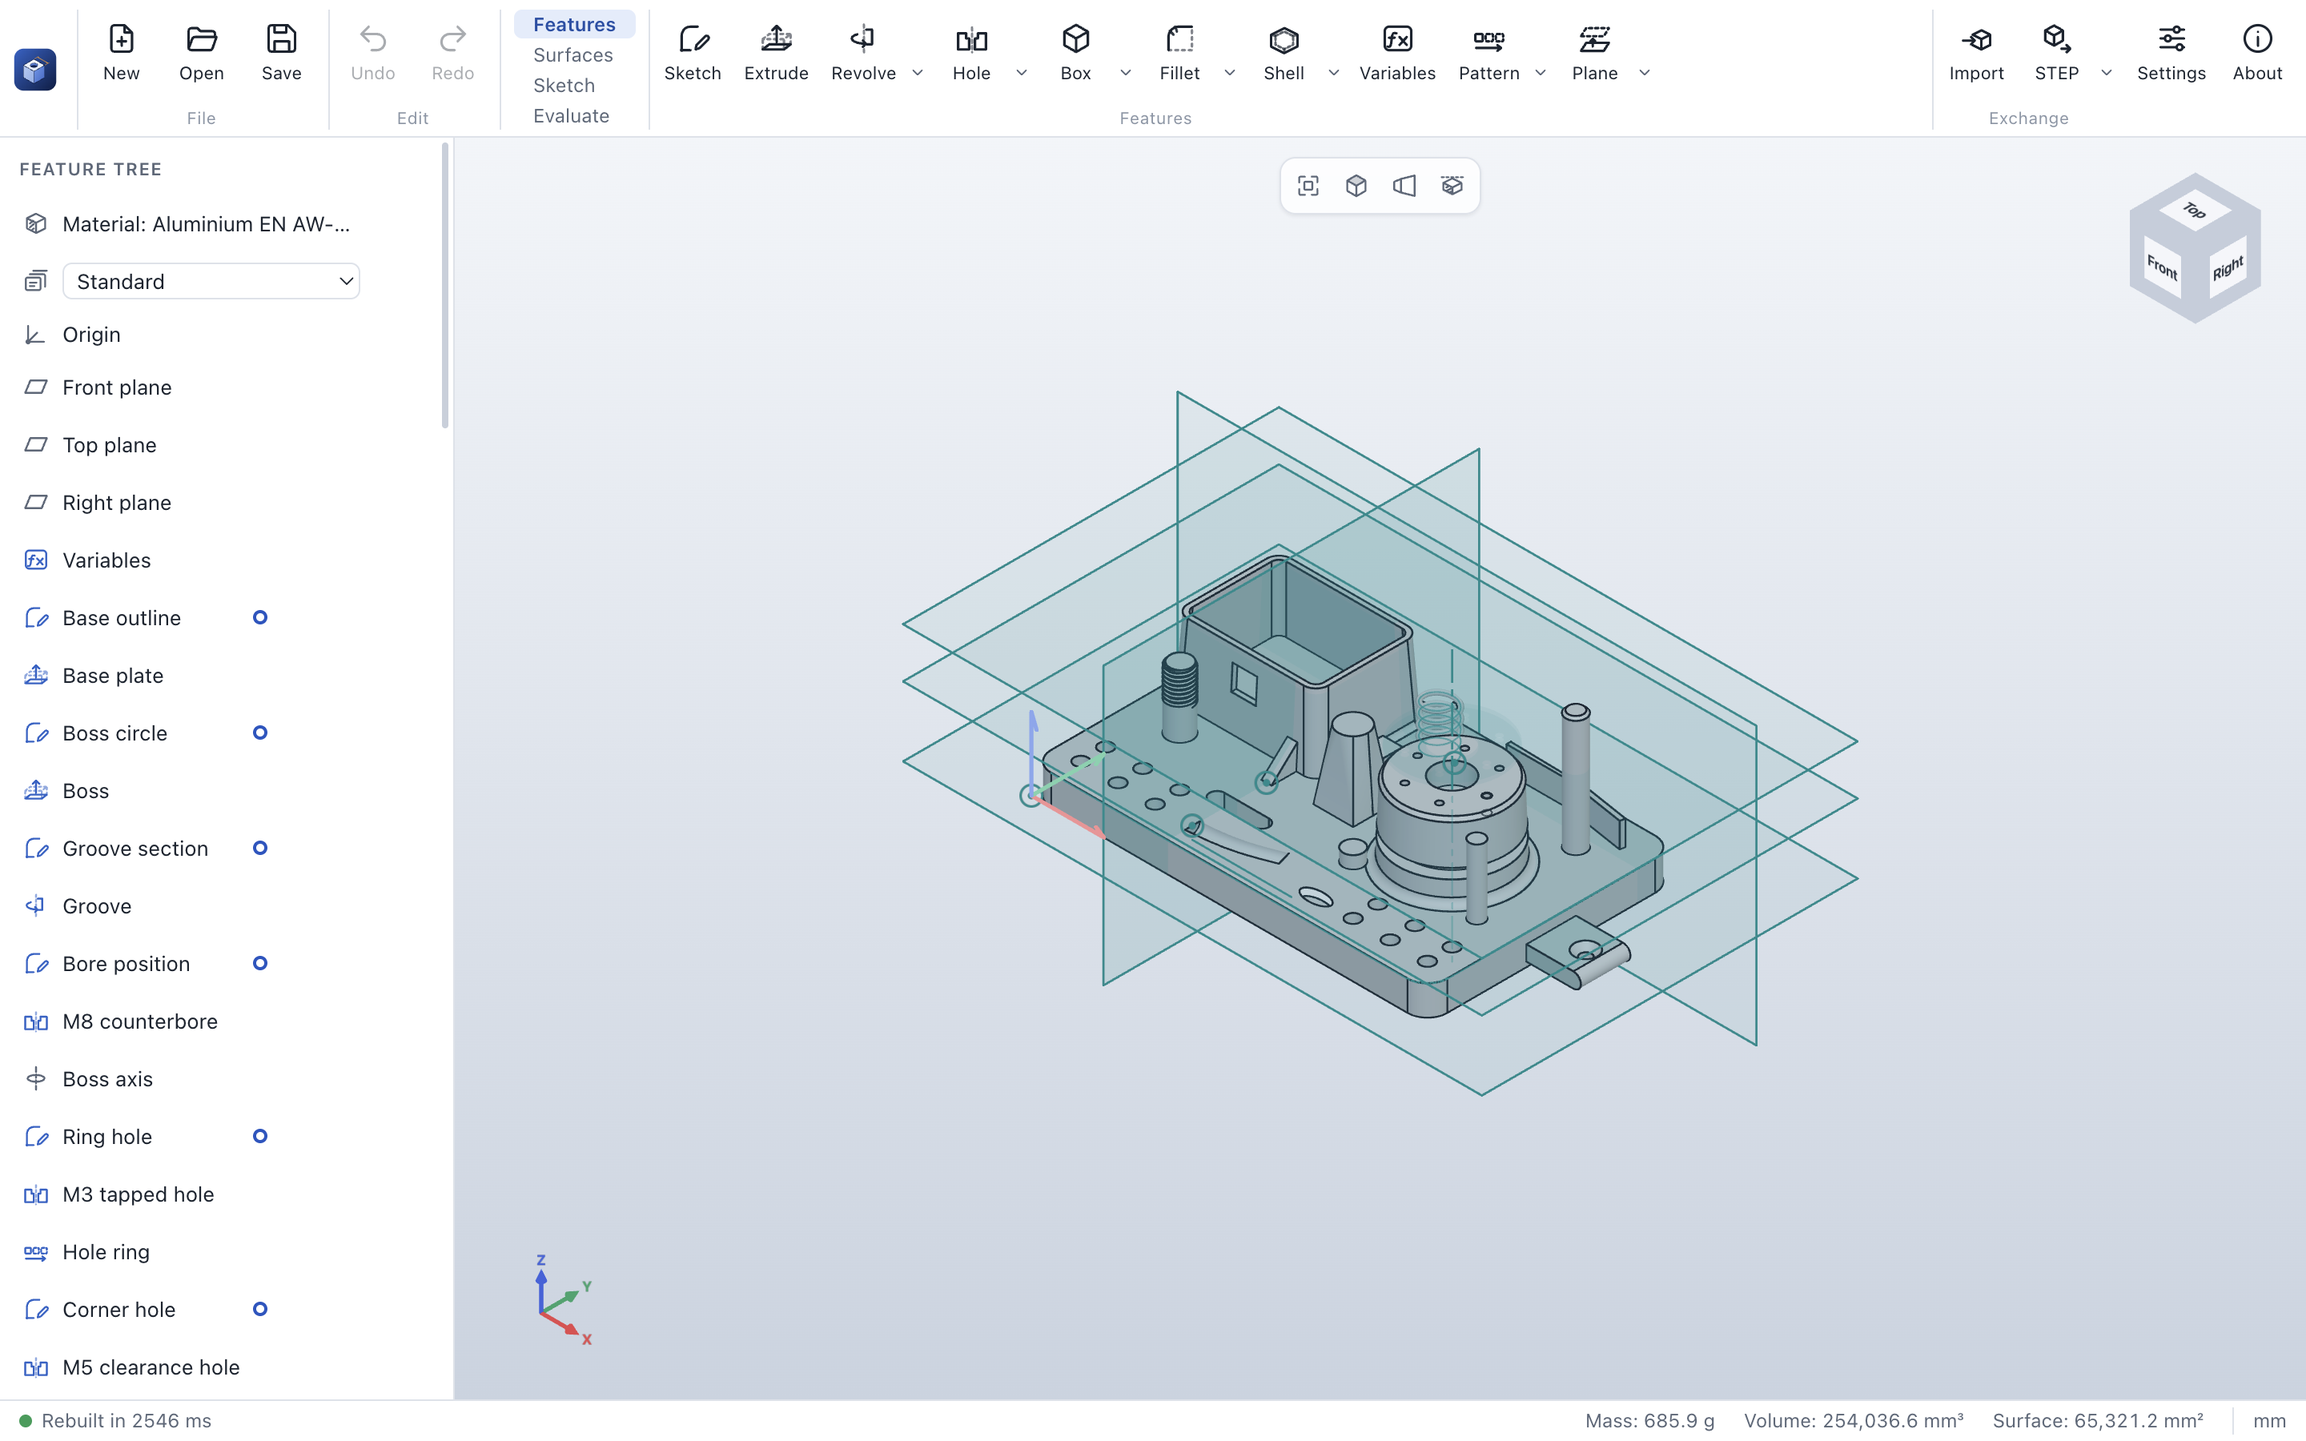
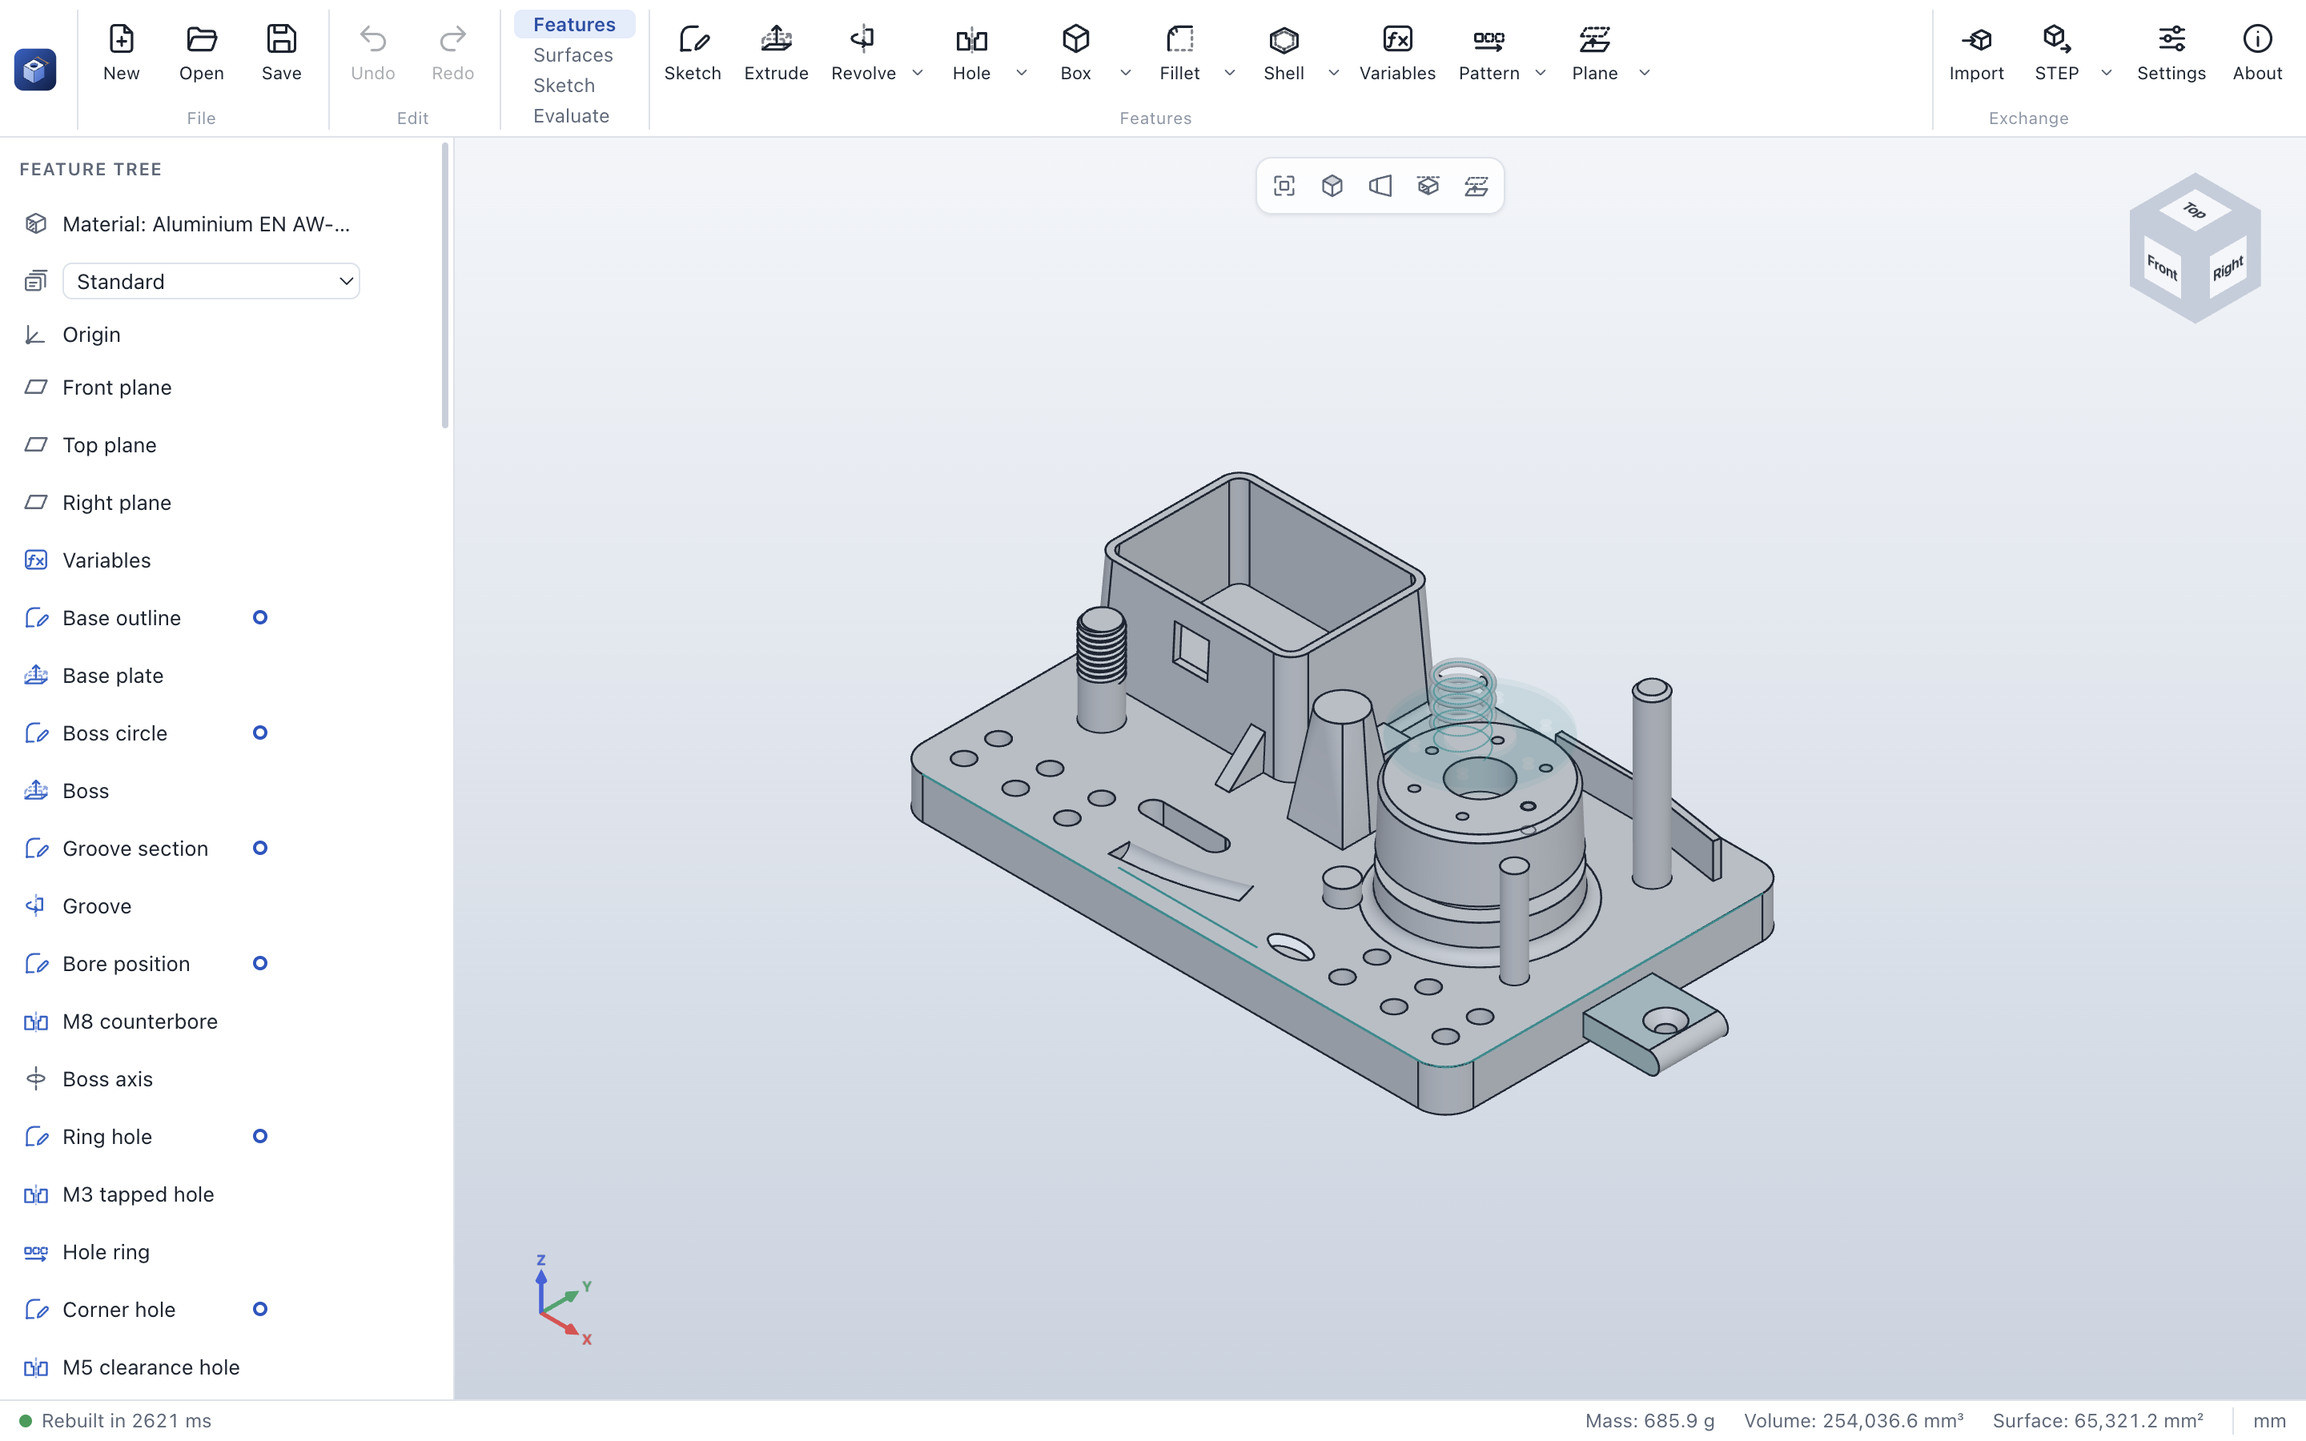
A view toolbar button hides reference planes, axes and points
Large parts collect many reference planes, axes, points and coordinate
systems that cover the part. A toggle in the view toolbar hides them; they
still show while a feature picks references, while a sketch plane is
chosen, and when selected or hovered in the tree. The showcase screenshot
uses it.

Claude-Session: https://claude.ai/code/session_014mH4hRaMFdGVSXx59CTqyr

Changed region(s): [[0.375, 0.28, 0.7812, 0.7778], [0.5625, 0.1244, 0.6562, 0.1556]]

diff --git a/tests/e2e/app.spec.ts b/tests/e2e/app.spec.ts
@@ -1261,6 +1261,35 @@ test('gives the mass properties of one body and exports it alone', async () => {
   await expect(page.locator('[data-testid="export-frame-dialog"]')).toBeHidden();
 });
 
+test('hides reference planes, axes and points, but shows them where they are picked', async () => {
+  launched = await launchApp({ width: 1000, height: 640 });
+  const { page } = launched;
+  await page.evaluate(() => {
+    const features = [
+      { id: 'block', type: 'box', operation: 'add', width: 100, depth: 60, height: 40, position: [0, 0, 0] },
+      { id: 'mid', type: 'plane', method: 'offset', references: [{ kind: 'standard-plane', plane: 'top' }], distance: 20, angle: 45, flip: false },
+      { id: 'z', type: 'axis', method: 'twoPlanes', references: [{ kind: 'standard-plane', plane: 'front' }, { kind: 'standard-plane', plane: 'right' }] },
+    ];
+    (window as unknown as { __parawerk: { setState(s: unknown): void } }).__parawerk.setState({ history: { features, past: [], future: [] }, savedFeatures: features, dirty: false });
+  });
+  await idle(page);
+  const drawn = () => page.evaluate(() => (window as unknown as { __parawerk: { viewport: { references(): number } } }).__parawerk.viewport.references());
+  await expect.poll(drawn).toBe(2);
+  await page.click('[data-testid="toggle-references"]');
+  await expect(page.locator('[data-testid="toggle-references"]')).toHaveAttribute('aria-pressed', 'false');
+  await expect.poll(drawn).toBe(0);
+  // Selected in the tree, a plane shows; while a new plane picks its references, all show.
+  await page.click('.feature-tree .tree-item[data-feature-id="mid"]');
+  await expect.poll(drawn).toBe(1);
+  await page.keyboard.press('Escape');
+  await page.click('[data-command="plane"]');
+  await expect.poll(drawn).toBeGreaterThanOrEqual(2);
+  await page.click('[data-testid="panel-cancel"]');
+  await expect.poll(drawn).toBe(0);
+  await page.click('[data-testid="toggle-references"]');
+  await expect.poll(drawn).toBe(2);
+});
+
 test('adds a box as a body of its own and combines the bodies', async () => {
   launched = await launchApp({ width: 1000, height: 640 });
   const { page } = launched;

diff --git a/src/renderer/src/references.ts b/src/renderer/src/references.ts
@@ -153,6 +153,9 @@ export function visibleThreads(state: AppState): CosmeticThread[] {
  * The reference planes, axes and points shown in the 3D view: those before the feature or sketch being
  * edited, and the one being edited (as a preview, highlighted), with hovered and selected ones marked.
  */
+/** The reference geometry that only helps to build the part (curves and surfaces are shapes of it). */
+const HELPER_KINDS: ReadonlySet<ReferenceGeometry['kind']> = new Set(['plane', 'axis', 'point', 'csys']);
+
 export function referenceItems(state: AppState): ReferenceItem[] {
   const features = state.history.features;
   const edit = state.activeEdit;
@@ -164,11 +167,14 @@ export function referenceItems(state: AppState): ReferenceItem[] {
   const selected = new Set(state.selection.filter((pick) => pick.kind === 'reference').map((pick) => pick.index));
   const hovered = state.hover?.kind === 'reference' ? state.hover.index : null;
   const items: ReferenceItem[] = [];
+  // Hidden planes, axes, points and coordinate systems still show where they can be picked, and when marked.
+  const hideHelpers = !state.showReferences && !state.choosingSketchPlane && !(edit && picksReferences(edit.draft));
   const add = (feature: Feature, index: number, preview: boolean) => {
     if (!hasReferenceGeometry(feature) || feature.suppressed) return;
     const geometry = results.get(feature.id)?.reference;
     if (!geometry) return;
     const style = preview ? 'preview' : hovered === index ? 'hovered' : selected.has(index) || referenced.has(index) ? 'selected' : 'normal';
+    if (hideHelpers && style === 'normal' && HELPER_KINDS.has(geometry.kind)) return;
     items.push({ index, geometry, style });
   };
   features.slice(0, end).forEach((feature, index) => add(feature, index, false));

diff --git a/src/renderer/src/ui/ViewToolbar.tsx b/src/renderer/src/ui/ViewToolbar.tsx
@@ -3,7 +3,9 @@ import { useTranslation } from 'react-i18next';
 import * as commands from '../commands.ts';
 import { useAppState } from '../state/store.ts';
 import { STANDARD_VIEWS } from '../viewport/views.ts';
-import { ProjectionIcon, RelationsIcon, SectionIcon, ViewsIcon, ZoomFitIcon } from './icons.tsx';
+import { FEATURE_ICONS, ProjectionIcon, RelationsIcon, SectionIcon, ViewsIcon, ZoomFitIcon } from './icons.tsx';
+
+const ReferencesIcon = FEATURE_ICONS.plane;
 
 const SHORTCUTS: Record<string, string> = {
   front: '1',
@@ -21,6 +23,7 @@ export function ViewToolbar() {
   const showRelations = useAppState((state) => state.settings.showSketchRelations);
   const sketching = useAppState((state) => state.sketch !== null);
   const section = useAppState((state) => state.section !== null);
+  const references = useAppState((state) => state.showReferences);
   const platform = useAppState((state) => state.appInfo?.platform);
   const [open, setOpen] = useState(false);
   const menuRef = useRef<HTMLDivElement>(null);
@@ -92,6 +95,17 @@ export function ViewToolbar() {
         onClick={() => commands.toggleSection()}
       >
         <SectionIcon />
+      </button>
+      <button
+        type="button"
+        className={`icon-button${references ? ' is-active' : ''}`}
+        title={t('viewbar.references')}
+        aria-label={t('viewbar.references')}
+        aria-pressed={references}
+        data-testid="toggle-references"
+        onClick={() => commands.toggleReferences()}
+      >
+        <ReferencesIcon />
       </button>
       {sketching ? (
         <button

diff --git a/tests/docs/screenshots.spec.ts b/tests/docs/screenshots.spec.ts
@@ -1581,10 +1581,11 @@ test('feature showcase screenshot', async () => {
   const file = [...(await readFile(path.join(repoRoot, 'docs/examples/feature-showcase.pwpart')))];
   await page.evaluate((bytes) => (window as unknown as { __parawerk: { commands: { loadDocument(path: string, data: Uint8Array): void } } }).__parawerk.commands.loadDocument('feature-showcase.pwpart', new Uint8Array(bytes)), file);
   await idle(page);
+  // Without the reference planes, axes and points, fitted to the part; the toast about the opened file fades out first.
+  await page.click('[data-testid="toggle-references"]');
   await page.evaluate(() => (window as unknown as { __parawerk: { viewport: { zoomToFit(): void } } }).__parawerk.viewport.zoomToFit());
   const canvas = await page.locator('.viewport-canvas').boundingBox();
   if (canvas) await page.mouse.move(canvas.x + canvas.width - 30, canvas.y + canvas.height - 30);
-  // The toast about the opened file fades out first.
   await page.waitForTimeout(4500);
   await page.screenshot({ path: out('showcase.png') });
   await app.close();

diff --git a/src/renderer/src/state/store.ts b/src/renderer/src/state/store.ts
@@ -123,6 +123,8 @@ export interface AppState {
   massFrame: string | null;
   /** The body (solid index) the mass properties are for; null: the whole part. */
   massBody: number | null;
+  /** Reference planes, axes, points and coordinate systems are drawn (they are shown anyway where they can be picked). */
+  showReferences: boolean;
   /** The export waiting for the choice of a coordinate system (asked only when the part has any). */
   exporting: ExportFormat | null;
   /** The coordinate system (feature id) the last export used; null: the model's own axes. */
@@ -175,6 +177,7 @@ export const initialState: AppState = {
   showMassProperties: false,
   massFrame: null,
   massBody: null,
+  showReferences: true,
   exporting: null,
   exportFrame: null,
   recovery: [],

diff --git a/src/renderer/src/ui/Viewport.tsx b/src/renderer/src/ui/Viewport.tsx
@@ -219,7 +219,9 @@ export function Viewport() {
         state.sketch?.index !== previous.sketch?.index ||
         state.hover !== previous.hover ||
         state.selection !== previous.selection ||
-        state.display !== previous.display
+        state.display !== previous.display ||
+        state.showReferences !== previous.showReferences ||
+        state.choosingSketchPlane !== previous.choosingSketchPlane
       ) {
         engine.setReferences(referenceItems(state));
         engine.setThreads(visibleThreads(state));

diff --git a/src/renderer/src/commands.ts b/src/renderer/src/commands.ts
@@ -1303,6 +1303,11 @@ export function setMassFrame(id: string | null): void {
   setState({ massFrame: id });
 }
 
+/** Shows or hides reference planes, axes, points and coordinate systems in the 3D view. */
+export function toggleReferences(show = !getState().showReferences): void {
+  setState({ showReferences: show });
+}
+
 /** Gives the mass properties of one body of the part (solid index), or (null) of the whole part. */
 export function setMassBody(index: number | null): void {
   setState({ massBody: index });

diff --git a/docs/user-guide/interface.md b/docs/user-guide/interface.md
@@ -8,7 +8,7 @@
 | **Feature tree** (left) | The part's material, the origin, the three standard planes and the history of the part, from top to bottom, ending in the rollback bar. Hover over a plane to show it in the 3D view; hover over a feature to edit, suppress or delete it; double-click to edit; drag features to reorder them. Features with a rebuild error are shown in red with a warning icon. |
 | **Property panel** (left, replaces the tree while a feature is created or edited) | Parameters of the feature with live preview. **✓** (Enter) applies, **✕** (Esc) cancels. Number fields accept calculations such as `120/2+5` and units such as `1in`; the arrow keys step the value (Shift: ×10). |
 | **Sketch panel** (left, above the tree in sketch mode) | The open sketch, its plane and contents. **✓** keeps the sketch, **✕** discards the changes. See [Sketches](sketches.md). |
-| **3D view** (center) | The model. The floating toolbar offers *Zoom to fit*, *Standard views*, *Perspective* and the *Section view*, and in sketch mode *Relation symbols*. The panels of the section view, the measure tool and the mass properties appear at the bottom right. The view cube (top right) and the axis indicator (bottom left) show the orientation. |
+| **3D view** (center) | The model. The floating toolbar offers *Zoom to fit*, *Standard views*, *Perspective*, the *Section view* and *Show reference planes, axes and points*, and in sketch mode *Relation symbols*. The panels of the section view, the measure tool and the mass properties appear at the bottom right. The view cube (top right) and the axis indicator (bottom left) show the orientation. |
 | **Status bar** (bottom) | Kernel state and rebuild time; the face or edge under the cursor (or the selected one) with its exact geometry, for example *Face 7 · Cylinder Ø 44 mm · 4,838.1 mm²*; mass (when the part has a material), volume and surface area of the part; optional frame statistics; the unit (mm). |
 
 ## Keyboard shortcuts

diff --git a/CHANGELOG.md b/CHANGELOG.md
@@ -17,6 +17,8 @@ and this project will adhere to [Semantic Versioning](https://semver.org/spec/v2
   their faces, so the features after them follow them.
 - Mass properties and exports of one body: the mass properties panel and the export dialog let you
   choose one body of a part of several – to weigh it or to print it on its own.
+- A button in the view toolbar hides reference planes, axes, points and coordinate systems; they still
+  show while a feature picks references, and when selected.
 - A feature showcase: one large example part with 86 features of all 33 kinds, built on each other –
   patterns of patterns, a shelled and drafted housing joined to the plate, a spring, a loft, a thread,
   surfaces, curves and two configurations ([docs/examples/feature-showcase.pwpart](docs/examples/feature-showcase.pwpart),

diff --git a/docs/user-guide/features.md b/docs/user-guide/features.md
@@ -540,6 +540,9 @@ Selecting the references first and then clicking **Plane**, **Axis** or **Point*
 away and chooses the type that fits – a planar face gives an offset plane, two vertices an axis through
 them.
 
+The plane button in the view toolbar (*Show reference planes, axes and points*) hides them when a part has
+many; they still show while a feature picks references, and when you select one in the tree.
+
 Reference geometry follows the part: it remembers faces, edges and vertices by name (see
 [How features remember their edges](#how-features-remember-their-edges)), so a plane offset from the top
 face moves up when the part gets taller. If something it is built on is gone, it is marked in red in the

diff --git a/docs/user-guide/reference/view-tools.md b/docs/user-guide/reference/view-tools.md
@@ -10,6 +10,7 @@
 | *Standard views* | Front, back, left, right, top, bottom, isometric | Ctrl/⌘ + 1 … 7 |
 | *Toggle perspective* | Orthographic (default) or perspective projection | |
 | *Section view* | Cuts the part open: see [Section view](section-view.md) | |
+| *Show reference planes, axes and points* | Hides or shows reference planes, axes, points and coordinate systems; they still show while you pick references, and when selected | |
 | *Show relation symbols* | In sketch mode: relation symbols on or off | |
 
 The views follow ISO naming: *front* looks along +Y, *top* down along −Z, *right* along −X; Z points up.

diff --git a/docs/user-guide/showcase.md b/docs/user-guide/showcase.md
@@ -43,6 +43,7 @@ what ParaWerk can do, to try out editing, or as a starting point for your own te
   their edges.
 - **Roll back:** drag the rollback bar up to see how the part was built, step by step.
 - **Suppress:** suppress the *Housing shell* or the *Hole row* and watch what follows.
+- **Fewer planes:** the plane button in the view toolbar hides the reference planes, axes and points.
 - **Section view, measure, mass properties:** look inside the housing and the boss, measure the hole
   spacing, check the mass (about 685 g).
 - **Export** STEP, STL or 3MF in the *Corner frame* coordinate system.
